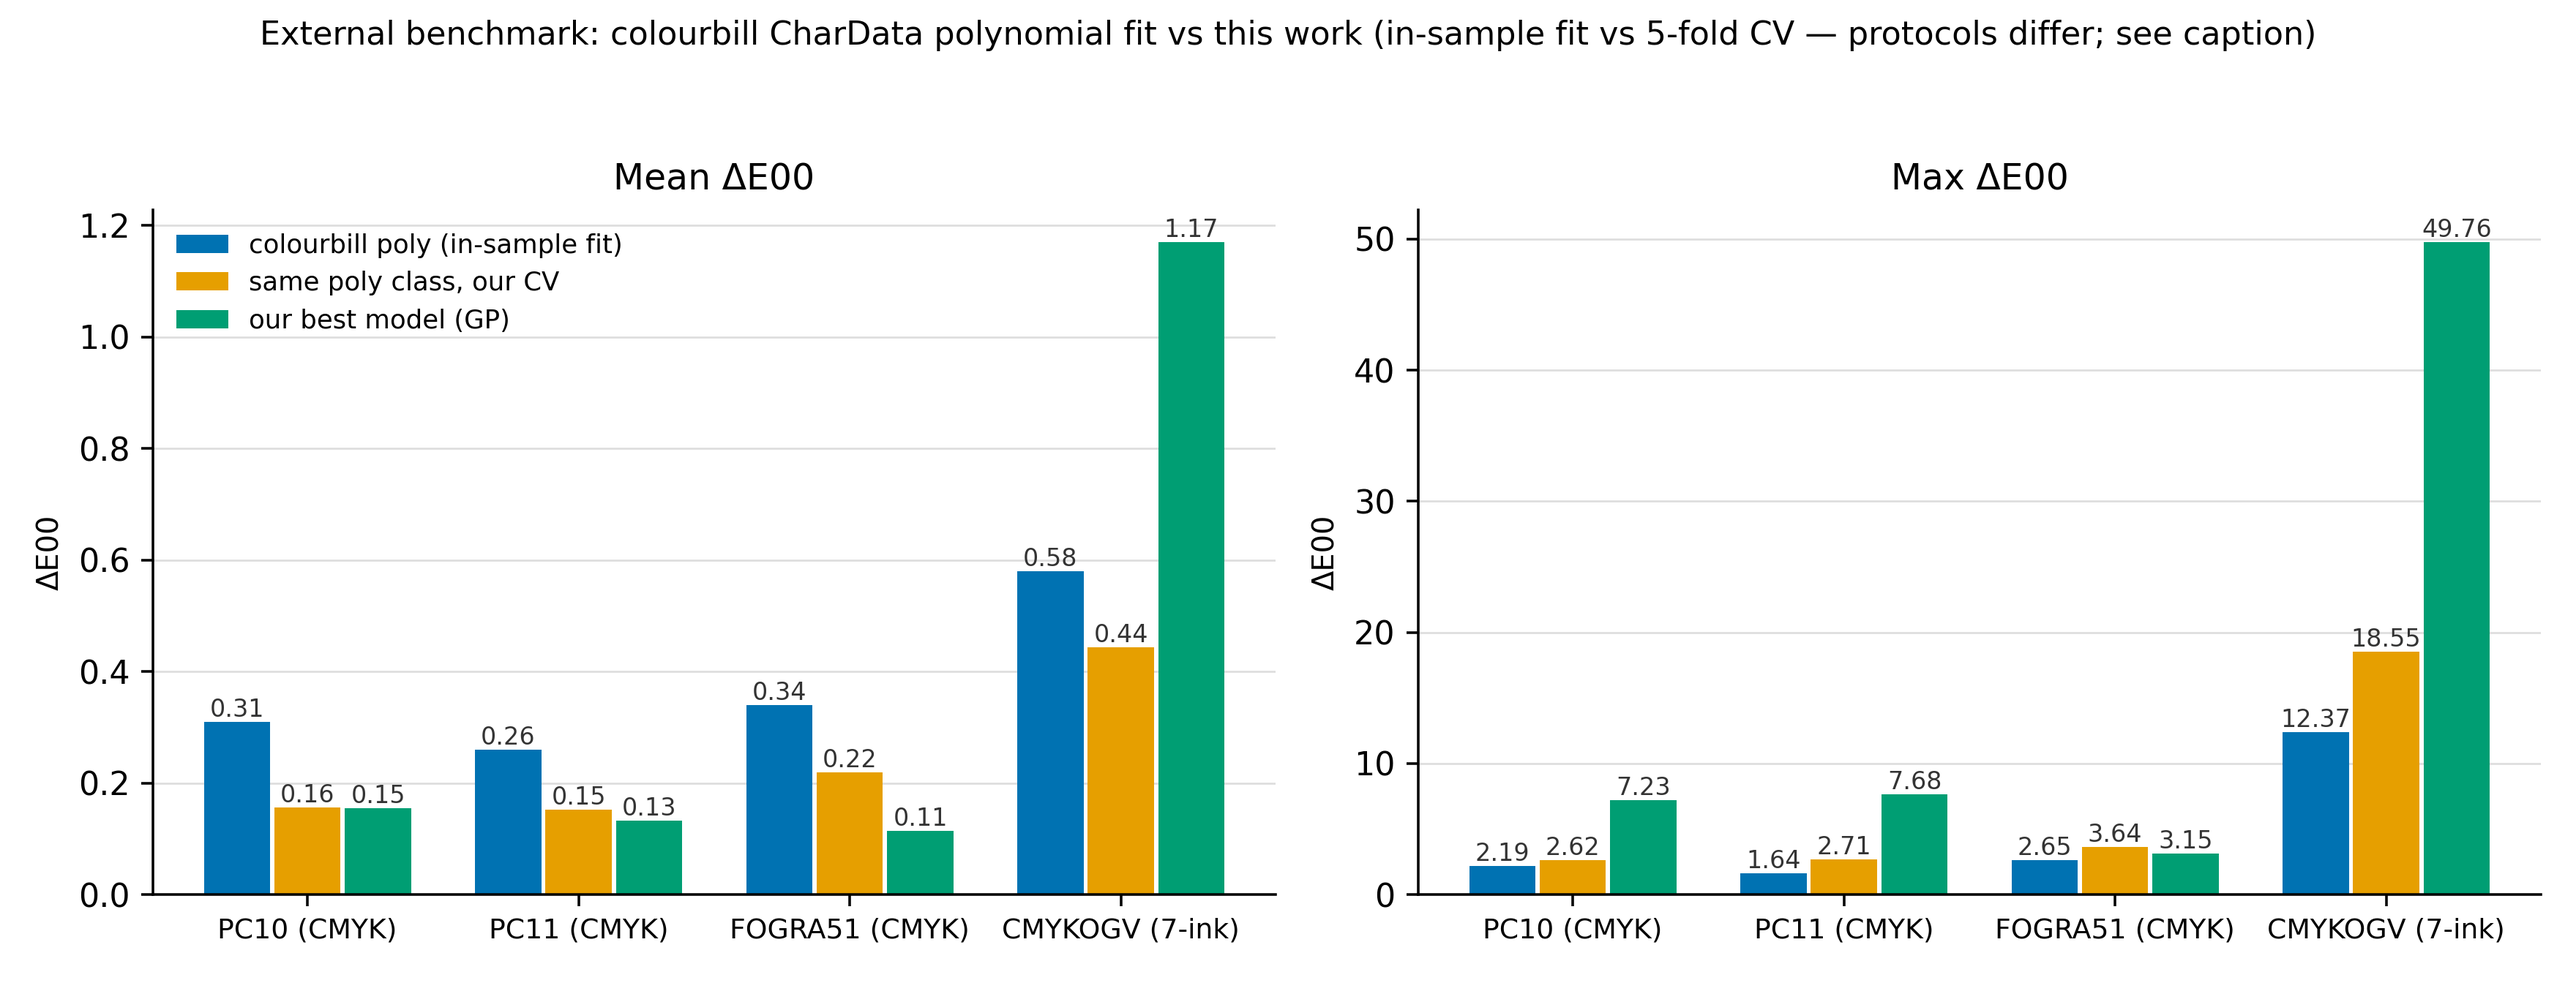
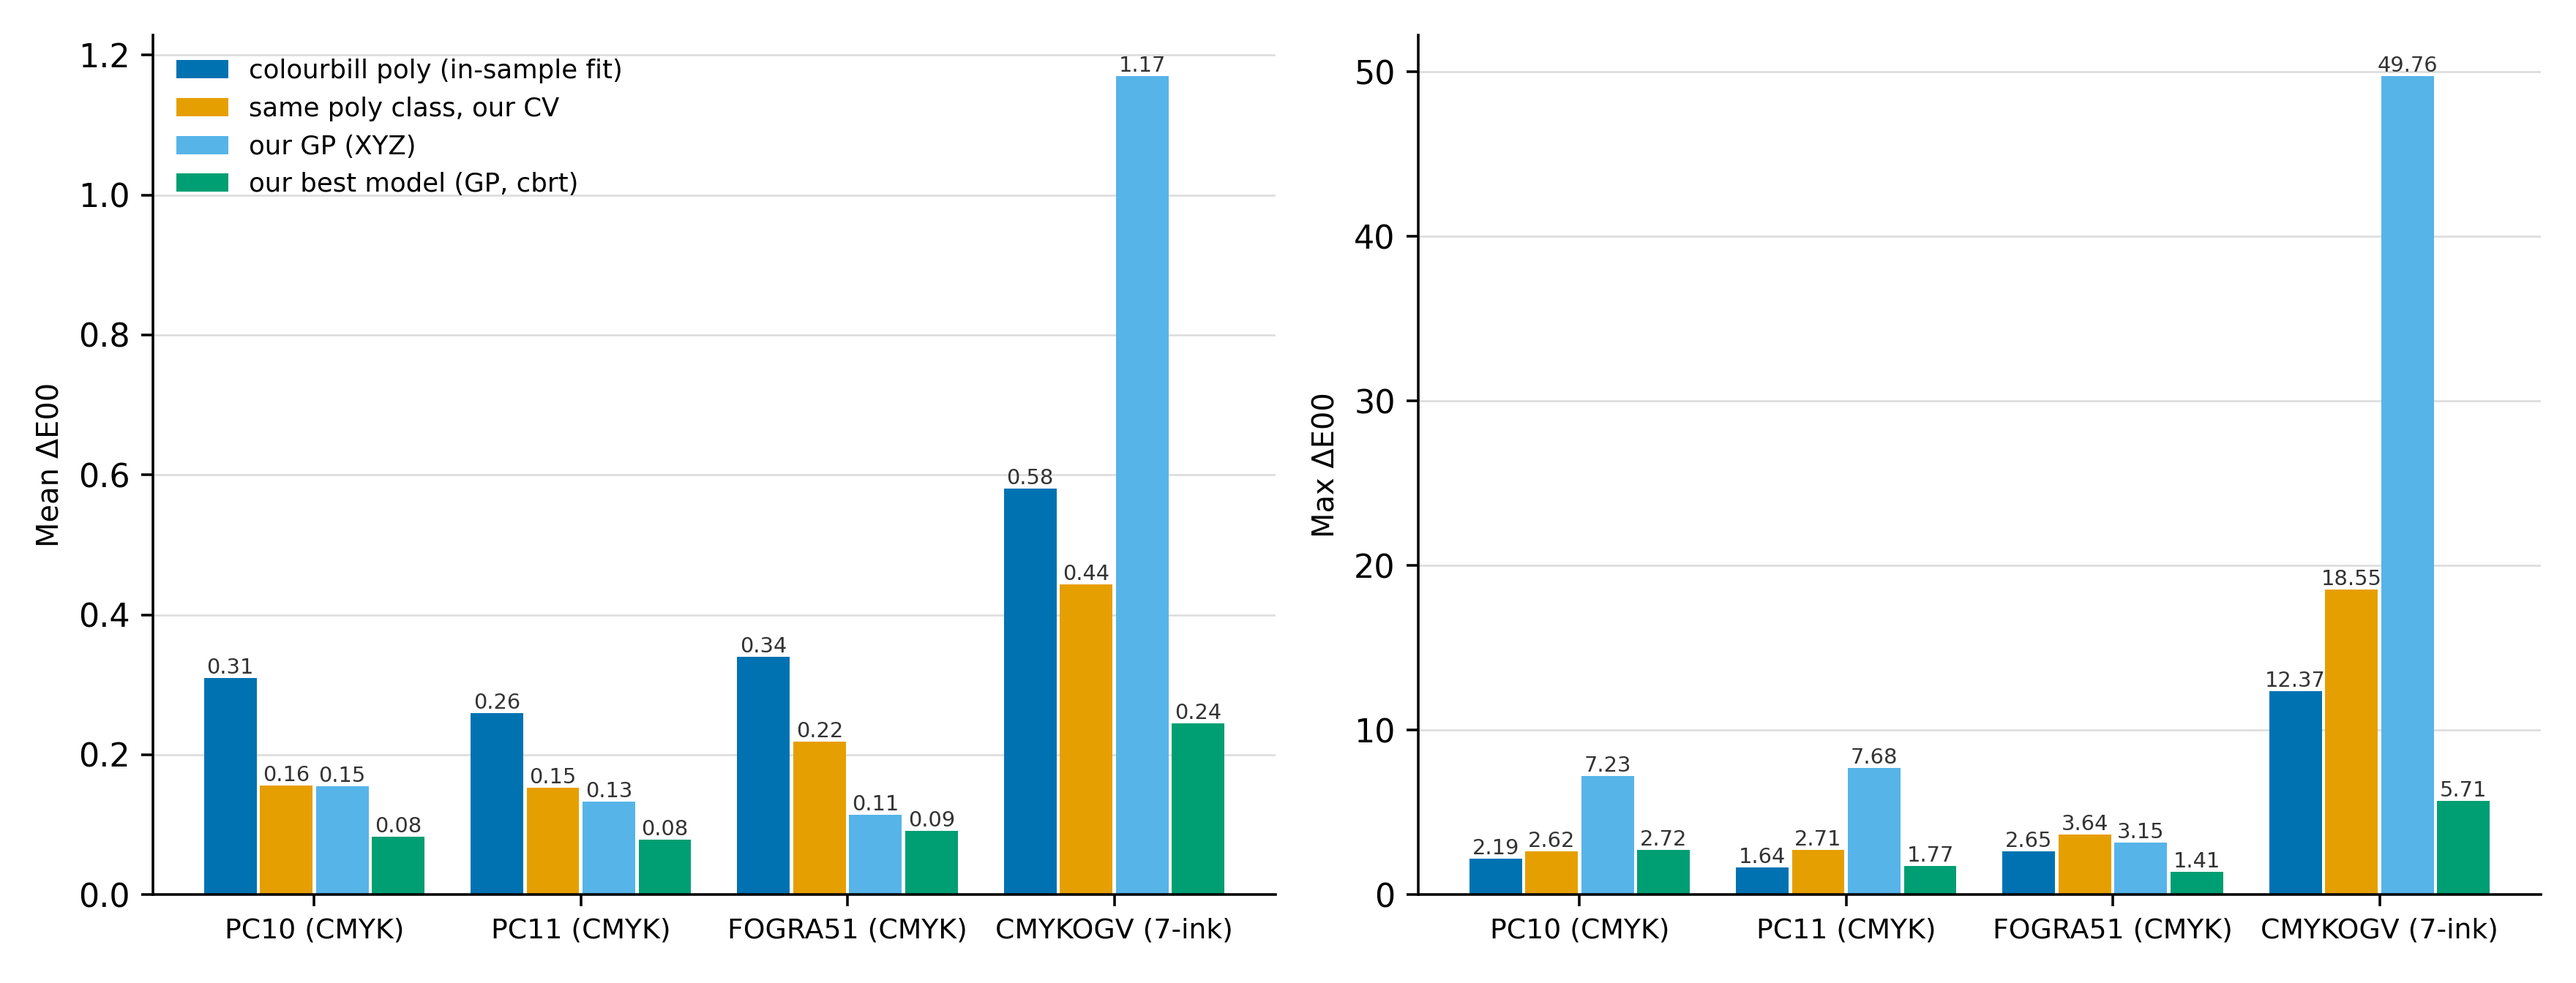
figures: add the cbrt GP series to the colourbill benchmark and drop the in-figure title
The old figure showed only the XYZ-fitted GP that the paper's text explains
away as a fitting-space artifact; the corrected comparison needs the
gaussian_process_cbrt series (means 0.083/0.079/0.091/0.245) beside it.
comparison.csv regenerated with both GP rows. Audit 02 figure issue 3.

diff --git a/journal/figures/fig_vs_colourbill.py b/journal/figures/fig_vs_colourbill.py
@@ -224,39 +224,43 @@ def main():
                           "mean": b["mean"], "max": b["max"], "n": int(b.n)})
         summ = pd.read_csv(os.path.join(REPO, "journal", "results", ds, "summary.csv")).set_index("model")
         gp = summ.loc["gaussian_process"]
-        comp_rows.append({"dataset": ds, "series": "our best model (GP)",
+        comp_rows.append({"dataset": ds, "series": "our GP (XYZ)",
                           "protocol": "5-fold CV", "model": "gaussian_process (XYZ)",
                           "median": gp["median"], "p95": gp.p95,
                           "mean": gp["mean"], "max": gp["max"], "n": int(gp.n)})
+        gpc = summ.loc["gaussian_process_cbrt"]
+        comp_rows.append({"dataset": ds, "series": "our best model (GP, cbrt)",
+                          "protocol": "5-fold CV", "model": "gaussian_process_cbrt",
+                          "median": gpc["median"], "p95": gpc.p95,
+                          "mean": gpc["mean"], "max": gpc["max"], "n": int(gpc.n)})
     comp = pd.DataFrame(comp_rows)
     comp.to_csv(os.path.join(CB_DIR, "comparison.csv"), index=False)
     print("\ncomparison:\n", comp.to_string(index=False))
 
-    # -- step 4: figure (mean + max panels; the only stats colourbill shares)
-    series = ["colourbill poly (in-sample fit)", "same poly class, our CV", "our best model (GP)"]
-    colors = {series[0]: "#0072B2", series[1]: "#E69F00", series[2]: "#009E73"}
+    # -- step 4: figure (mean + max panels; the only stats colourbill shares).
+    # No in-figure title: MDPI figures carry their description in the caption.
+    series = ["colourbill poly (in-sample fit)", "same poly class, our CV",
+              "our GP (XYZ)", "our best model (GP, cbrt)"]
+    colors = {series[0]: "#0072B2", series[1]: "#E69F00",
+              series[2]: "#56B4E9", series[3]: "#009E73"}
     fig, axes = plt.subplots(1, 2, figsize=(11, 4.2))
     x = np.arange(len(DATASETS))
-    width = 0.26
-    for ax, stat, title in zip(axes, ["mean", "max"], ["Mean ΔE00", "Max ΔE00"]):
+    width = 0.21
+    for ax, stat, panel in zip(axes, ["mean", "max"], ["Mean ΔE00", "Max ΔE00"]):
         for i, s in enumerate(series):
             vals = [comp[(comp.dataset == d) & (comp.series == s)][stat].iloc[0] for d in DATASETS]
-            bars = ax.bar(x + (i - 1) * width, vals, width * 0.94, color=colors[s],
+            bars = ax.bar(x + (i - 1.5) * width, vals, width * 0.94, color=colors[s],
                           label=s if stat == "mean" else None)
             for b, v in zip(bars, vals):
                 ax.annotate(f"{v:.2f}", (b.get_x() + b.get_width() / 2, v),
-                            ha="center", va="bottom", fontsize=7.5, color="#333333")
-        ax.set_title(title, fontsize=11)
+                            ha="center", va="bottom", fontsize=6.5, color="#333333")
         ax.set_xticks(x, [DATASET_LABELS[d] for d in DATASETS], fontsize=8.5)
-        ax.set_ylabel("ΔE00", fontsize=9)
+        ax.set_ylabel(f"{panel}", fontsize=9)
         ax.spines[["top", "right"]].set_visible(False)
         ax.grid(axis="y", color="#dddddd", linewidth=0.6)
         ax.set_axisbelow(True)
     axes[0].legend(loc="upper left", fontsize=8, frameon=False)
-    fig.suptitle("External benchmark: colourbill CharData polynomial fit vs this work "
-                 "(in-sample fit vs 5-fold CV — protocols differ; see caption)",
-                 fontsize=10)
-    fig.tight_layout(rect=[0, 0, 1, 0.94])
+    fig.tight_layout()
     fig.savefig(OUT_FIG, dpi=320)
     print(f"\nwrote {OUT_FIG}")
 
